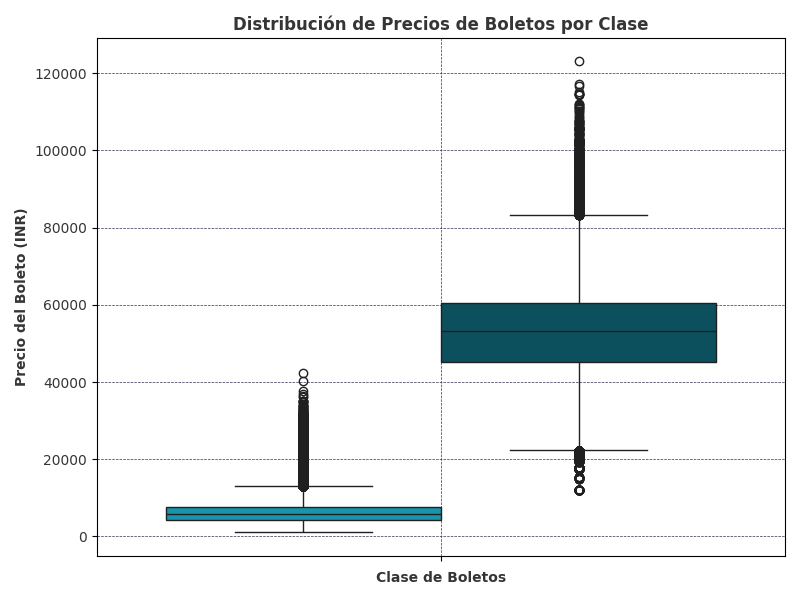
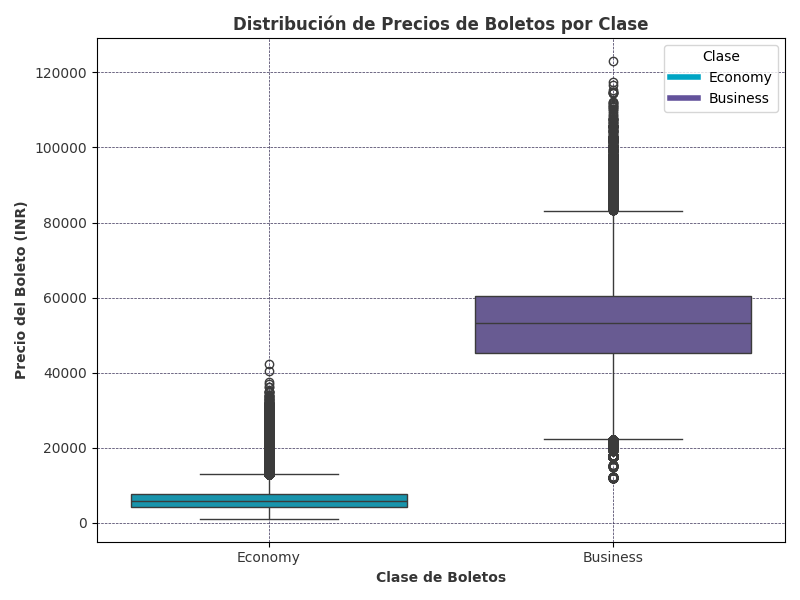
generar img

diff --git a/main.py b/main.py
@@ -23,7 +23,7 @@ palette_colors = ['#00a5c4', '#00596a', '#d5f4f4', '#738484', '#a172a5', '#573e5
 
 #trends_from_destination_cities.graph_gen_business(data, palette_colors, (11,6), True)
 
-price_class.graph_gen(data, palette_colors, (8,6))
+price_class.graph_gen(data, palette_colors, (8,6), True)
 
 #dist_price_class.graph_gen(data, palette_colors, (8,6), True)
 
